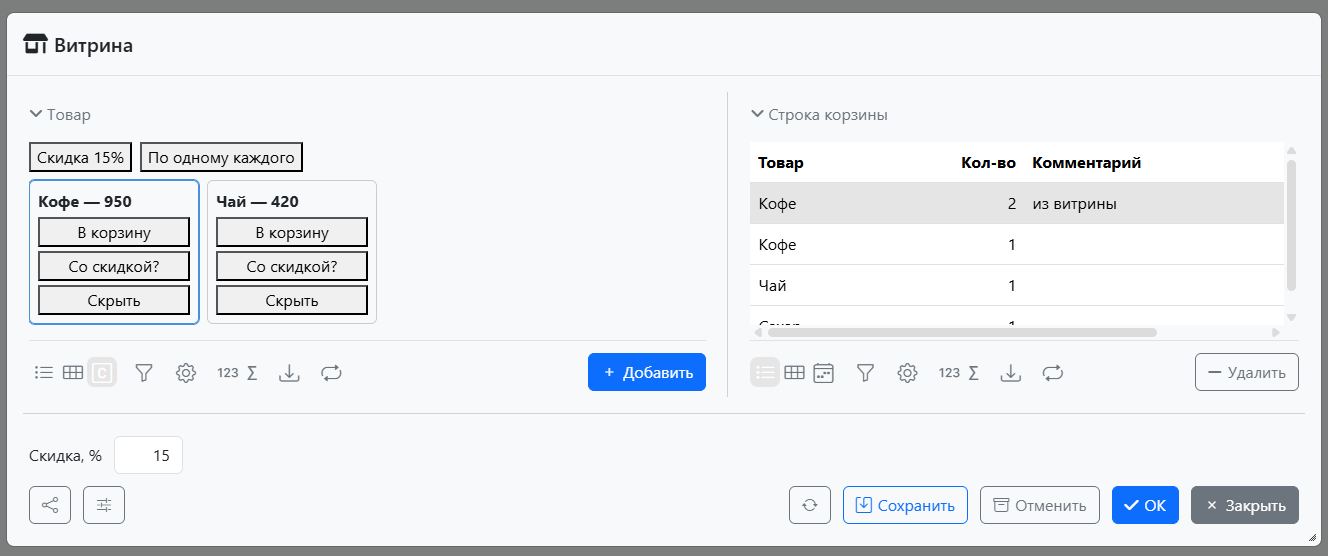
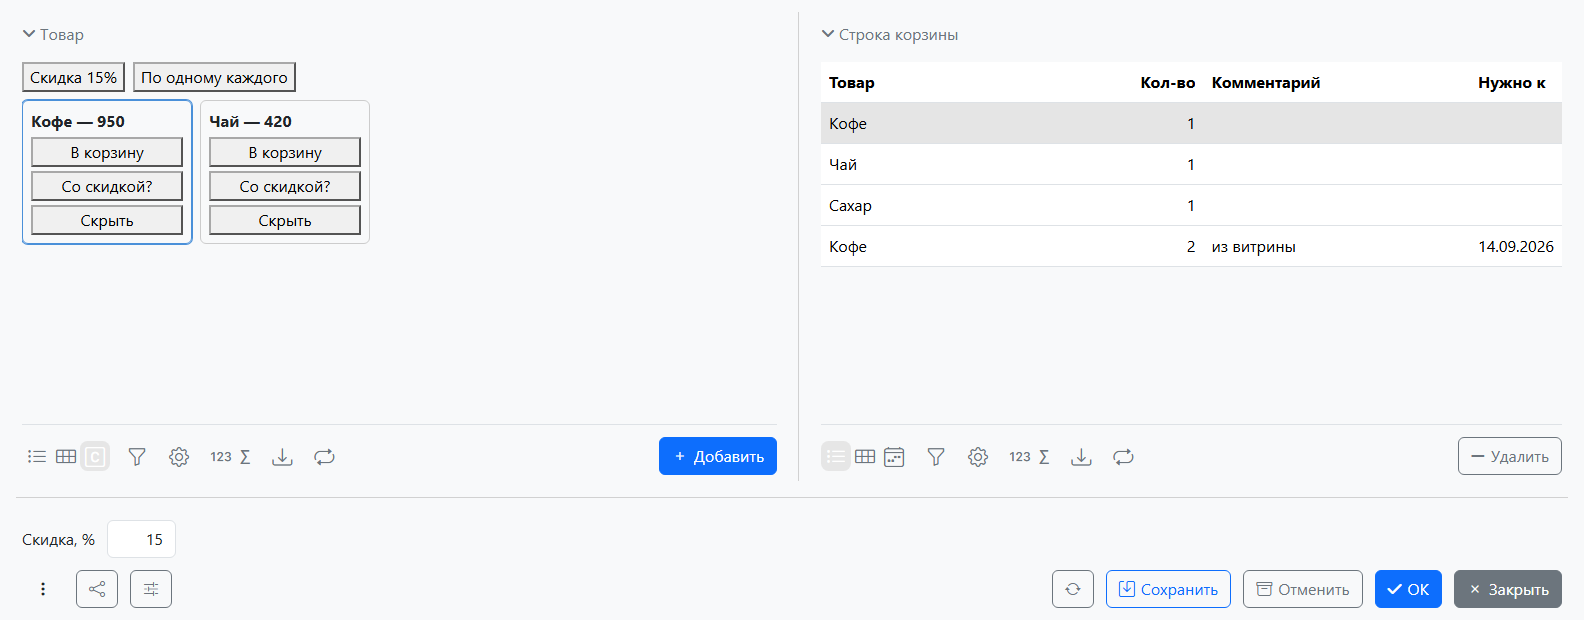
Updated doc pages

diff --git a/docs/how-to/How-to_Custom_components_objects.md b/docs/how-to/How-to_Custom_components_objects.md
@@ -17,18 +17,18 @@ CLASS Item 'Item';
 
 name 'Name' = DATA STRING (Item) NONULL;
 price 'Price' = DATA NUMERIC[12,2] (Item) NONULL;
-image '' = DATA IMAGEFILE (Item);
+picture '' = DATA IMAGEFILE (Item);
 
 FORM item 'Item'
     OBJECTS i = Item PANEL
-    PROPERTIES(i) name, price, image
+    PROPERTIES(i) name, price, picture
     
     EDIT Item OBJECT i
 ;
 
 DESIGN item {
     OBJECTS {
-        MOVE PROPERTY(image(i)) {
+        MOVE PROPERTY(picture(i)) {
             fill = 1;
         }
     }
@@ -42,7 +42,7 @@ Let's create a form with a list of items. To do this let's add to the form an ob
 ```lsf
 FORM items 'Items'
     OBJECTS i = Item CUSTOM 'itemCards'
-    PROPERTIES(i) READONLY image, price, name
+    PROPERTIES(i) READONLY picture, price, name
     PROPERTIES(i) NEWSESSION new = NEW, edit = EDIT GRID, DELETE GRID
 ;
 
@@ -83,7 +83,7 @@ update: (element, controller, list) => {
 
         let cardImage = document.createElement("img")
         cardImage.classList.add("item-card-image");
-        cardImage.src = item.image;
+        cardImage.src = item.picture;
         card.appendChild(cardImage);
 
         let cardPrice = document.createElement("div")

diff --git a/i18n/ru/docusaurus-plugin-content-docs/current/how-to/How-to_Custom_components_objects.md b/i18n/ru/docusaurus-plugin-content-docs/current/how-to/How-to_Custom_components_objects.md
@@ -17,18 +17,18 @@ CLASS Item 'Item';
 
 name 'Name' = DATA STRING (Item) NONULL;
 price 'Price' = DATA NUMERIC[12,2] (Item) NONULL;
-image '' = DATA IMAGEFILE (Item);
+picture '' = DATA IMAGEFILE (Item);
 
 FORM item 'Item'
     OBJECTS i = Item PANEL
-    PROPERTIES(i) name, price, image
+    PROPERTIES(i) name, price, picture
     
     EDIT Item OBJECT i
 ;
 
 DESIGN item {
     OBJECTS {
-        MOVE PROPERTY(image(i)) {
+        MOVE PROPERTY(picture(i)) {
             fill = 1;
         }
     }
@@ -42,7 +42,7 @@ DESIGN item {
 ```lsf
 FORM items 'Items'
     OBJECTS i = Item CUSTOM 'itemCards'
-    PROPERTIES(i) READONLY image, price, name
+    PROPERTIES(i) READONLY picture, price, name
     PROPERTIES(i) NEWSESSION new = NEW, edit = EDIT GRID, DELETE GRID
 ;
 
@@ -83,7 +83,7 @@ update: (element, controller, list) => {
 
         let cardImage = document.createElement("img")
         cardImage.classList.add("item-card-image");
-        cardImage.src = item.image;
+        cardImage.src = item.picture;
         card.appendChild(cardImage);
 
         let cardPrice = document.createElement("div")

diff --git a/i18n/ru/docusaurus-plugin-content-docs/current/how-to/How-to_Custom_components_server_calls.md b/i18n/ru/docusaurus-plugin-content-docs/current/how-to/How-to_Custom_components_server_calls.md
@@ -33,7 +33,7 @@ discount 'Скидка, %' = DATA NUMERIC[5,2] ();
 item 'Товар' = DATA Item (CartLine) NONULL DELETE;
 nameItem 'Товар' (CartLine l) = name(item(l));
 quantity 'Кол-во' = DATA INTEGER (CartLine);
-note 'Комментарий' = DATA STRING[100] (CartLine);
+note 'Комментарий' = DATA STRING[100] (CartLine) CHARWIDTH 20;
 needBy 'Нужно к' = DATA DATE (CartLine);
 
 // exec: объект (приходит числовым id) + примитивы INTEGER, STRING, DATE
@@ -81,7 +81,7 @@ DESIGN shop {
     NEW pane FIRST {
         fill = 1;
         horizontal = TRUE;
-        MOVE BOX(i) { fill = 2; }
+        MOVE BOX(i) { fill = 1; }
         MOVE BOX(l) { fill = 1; }
     }
 }

diff --git a/docs/how-to/How-to_Custom_components_server_calls.md b/docs/how-to/How-to_Custom_components_server_calls.md
@@ -33,7 +33,7 @@ discount 'Discount, %' = DATA NUMERIC[5,2] ();
 item 'Item' = DATA Item (CartLine) NONULL DELETE;
 nameItem 'Item' (CartLine l) = name(item(l));
 quantity 'Quantity' = DATA INTEGER (CartLine);
-note 'Note' = DATA STRING[100] (CartLine);
+note 'Note' = DATA STRING[100] (CartLine) CHARWIDTH 20;
 needBy 'Need by' = DATA DATE (CartLine);
 
 // exec: an object (arrives as a numeric id) + INTEGER, STRING, DATE primitives
@@ -81,7 +81,7 @@ DESIGN shop {
     NEW pane FIRST {
         fill = 1;
         horizontal = TRUE;
-        MOVE BOX(i) { fill = 2; }
+        MOVE BOX(i) { fill = 1; }
         MOVE BOX(l) { fill = 1; }
     }
 }
